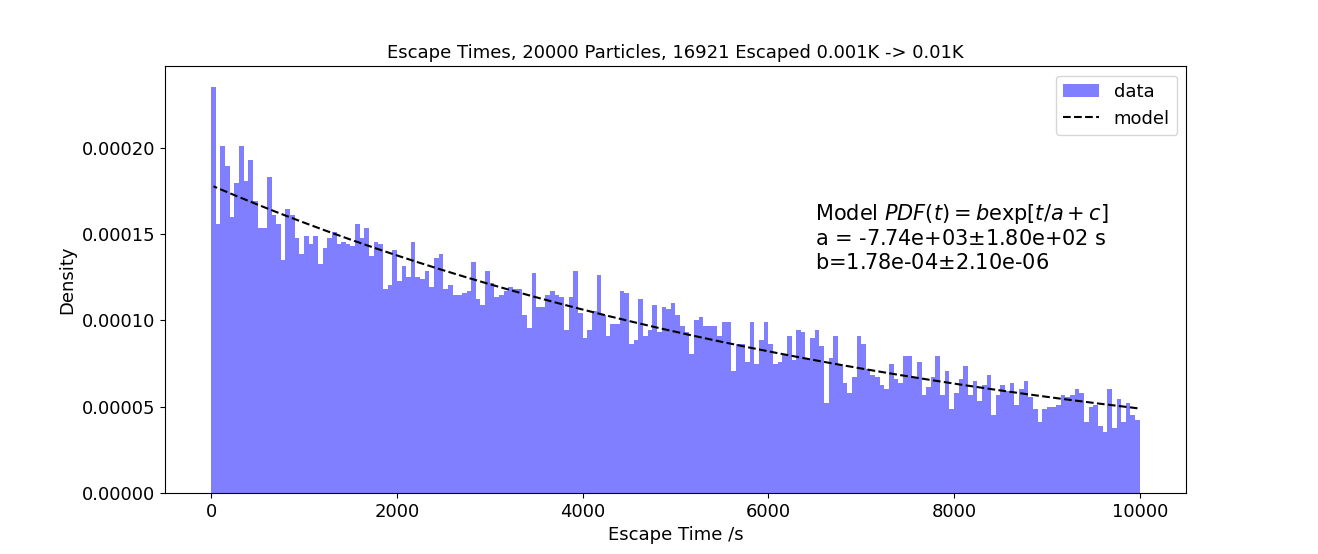
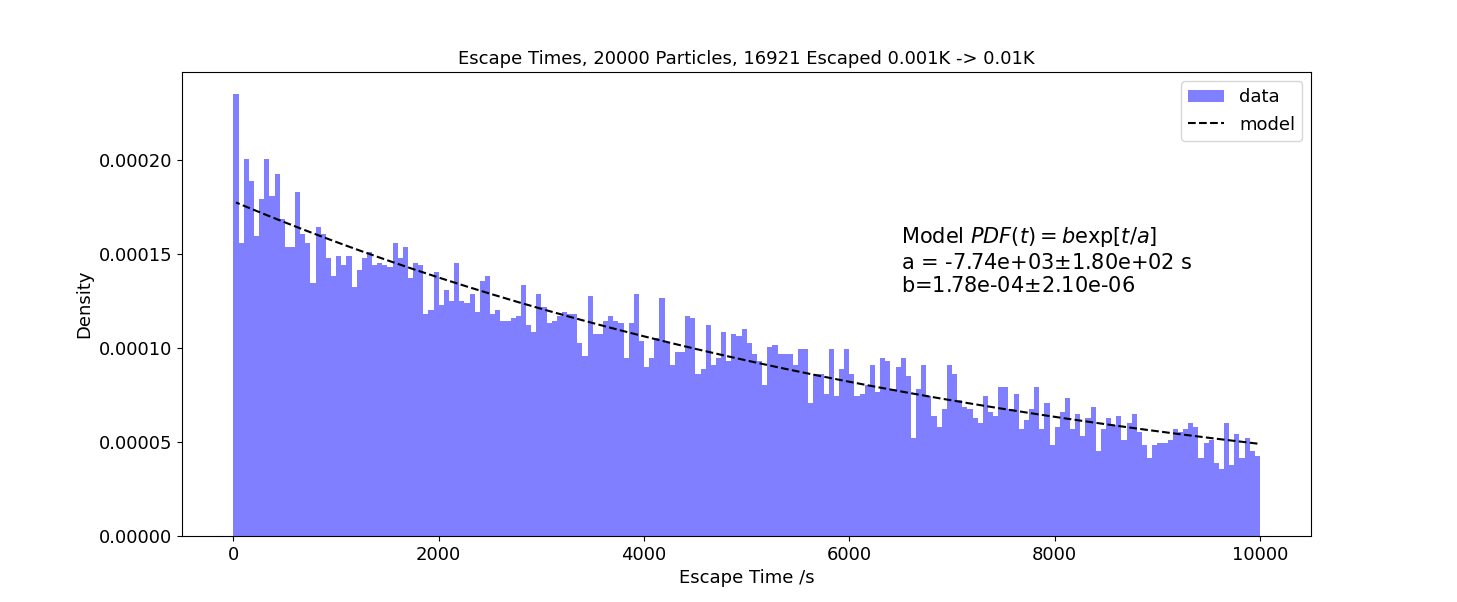
updated figures

diff --git a/timetoescape/sim.py b/timetoescape/sim.py
@@ -389,7 +389,7 @@ def HistEscapeTimes(filename):
     '''
 
     plot.title(r"Escape Times, {0} Particles, {3} Escaped {1}K -> {2}K".format(NUMBER, INITEMP, THRESHOLD, len(dat[0])))
-    plot.text(6500,0.00013,"Model $PDF(t) = b\exp[t/a + c]$\na = {0:3.2e}$\pm${2:3.2e} s \nb={1:3.2e}$\pm${3:3.2e}".format(coefs[0][0], coefs[0][1], perr[0],perr[1]), fontsize=15)
+    plot.text(6500,0.00013,"Model $PDF(t) = b\exp[t/a]$\na = {0:3.2e}$\pm${2:3.2e} s \nb={1:3.2e}$\pm${3:3.2e}".format(coefs[0][0], coefs[0][1], perr[0],perr[1]), fontsize=15)
     plot.plot(binx,y,'k--', label="model")
     plot.xlabel('Escape Time /s')
     plot.ylabel('Density')